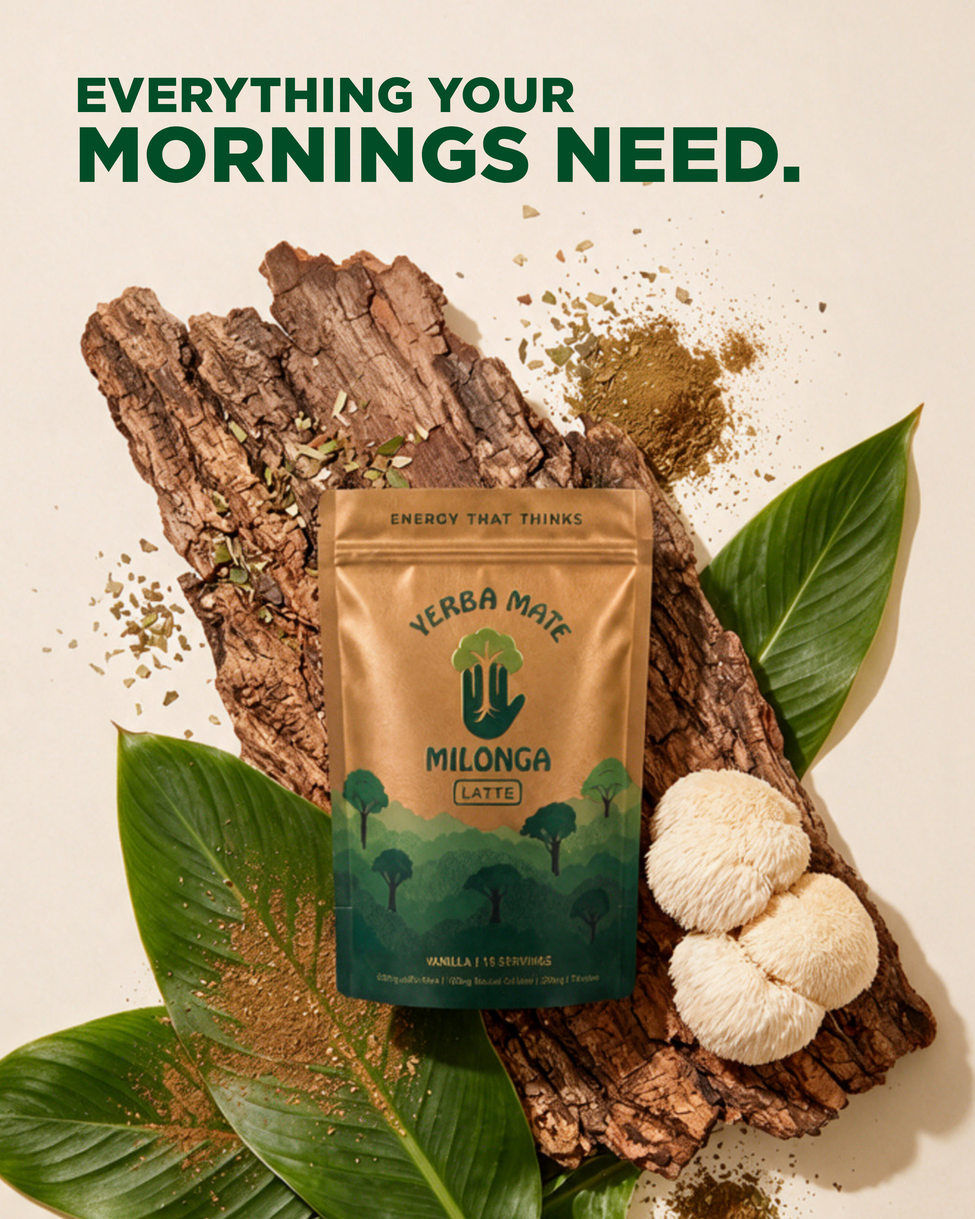
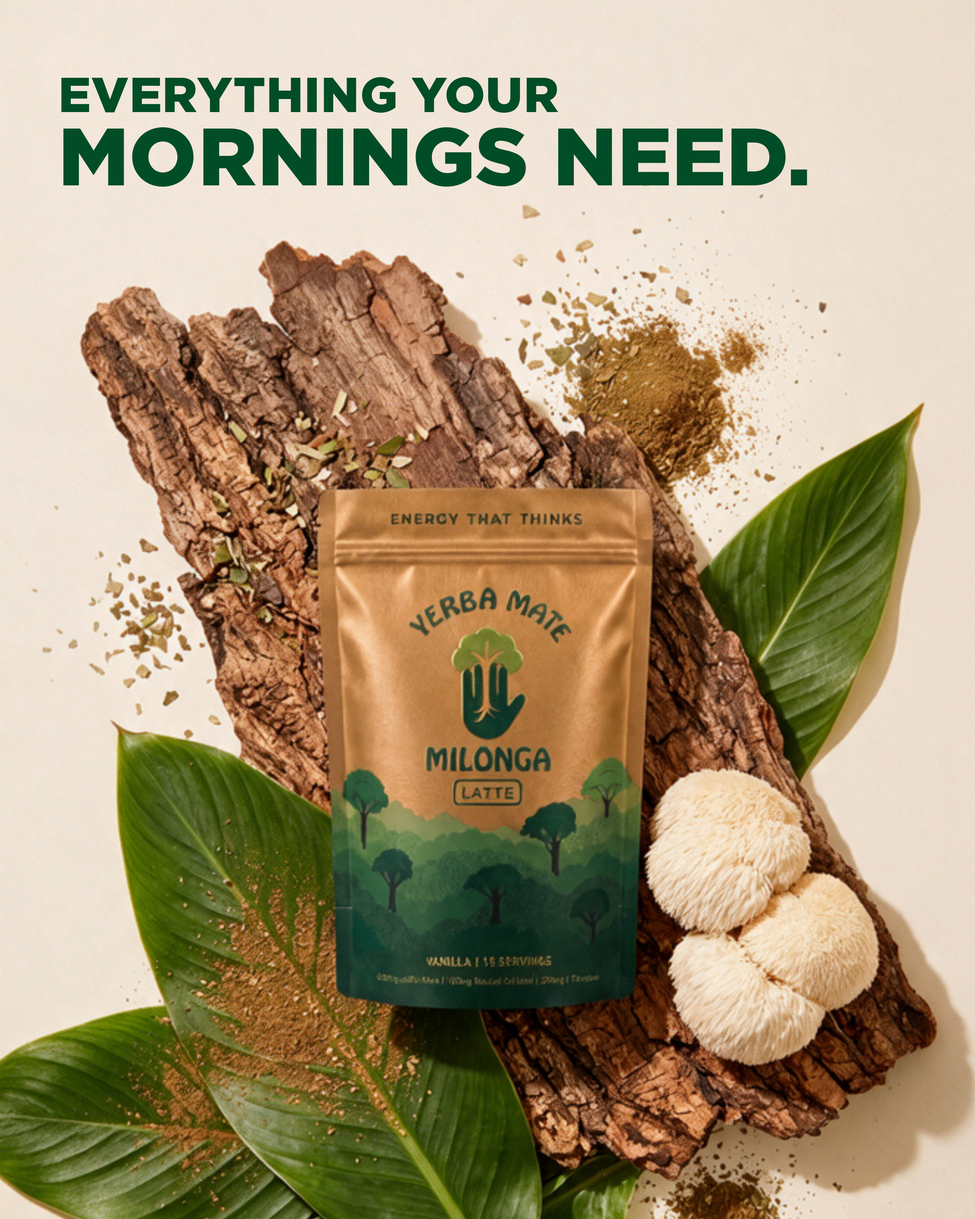
carousel: three-ingredients slide 1, the payoff goes up again
48 -> 50, and the margins pay for it rather than the line breaking. A
character of this face runs about 0.73 of its point size here, so fourteen of
them at 50 need 513 — more than the 508 that padX 46 leaves. padX comes in to
36, which opens 528 and keeps 15 units in hand, so "MORNINGS NEED." still
holds on one line.

Claude-Session: https://claude.ai/code/session_01NhEtXPnfeCJfN73SqBkUZ5

Changed region(s): [[0.0625, 0.0625, 0.5938, 0.1562], [0.625, 0.0938, 0.8438, 0.1562], [0.5625, 0.125, 0.5938, 0.1562]]

diff --git a/email-ds/emails/carousel/three-ingredients.jsx b/email-ds/emails/carousel/three-ingredients.jsx
@@ -62,15 +62,15 @@ function CarouselThreeIngredients() {
     // PAST cover, which zoom does, at the cost of the edges. 1.16 with the
     // focus a third down spends that cost on the empty cream at the foot.
     S({ src: '../public/product/flatlay-ingredients.jpg', focus: 'center 32%',
-        zoom: 1.16, align: 'top', padX: 46, padY: 46 },
-      // 30 against 48. "MORNINGS NEED." is the thing being read first and
-      // "everything your" is the run-up to it, so the split stays better than
-      // three to two — but the payoff has to hold on ONE line, and that sets
-      // the ceiling. At 56 a character of this face runs about 41 units, so
-      // the fourteen of them needed 574 against the 508 between the margins
-      // and "NEED." dropped to a line of its own. 48 is where it fits.
+        zoom: 1.16, align: 'top', padX: 36, padY: 46 },
+      // 30 against 50. "MORNINGS NEED." is the thing being read first and
+      // "everything your" is the run-up to it — but the payoff has to hold on
+      // ONE line, and that is what caps the size. A character of this face
+      // runs about 0.73 of its point size here, so fourteen of them at 50
+      // need 513, and the margins are what has to give: padX comes in 46 ->
+      // 36, which opens 528 and leaves 15 units in hand.
       h(M.SlideTitle, { line1: 'Everything your', line2: 'mornings need.',
-        size: 30, size2: 48, lead: 0.98, color: FOREST, color2: FOREST }),
+        size: 30, size2: 50, lead: 0.98, color: FOREST, color2: FOREST }),
     ),
 
     Ingredient('../public/product/ing-yerba-mate.png', 'Loose yerba mate leaf',
